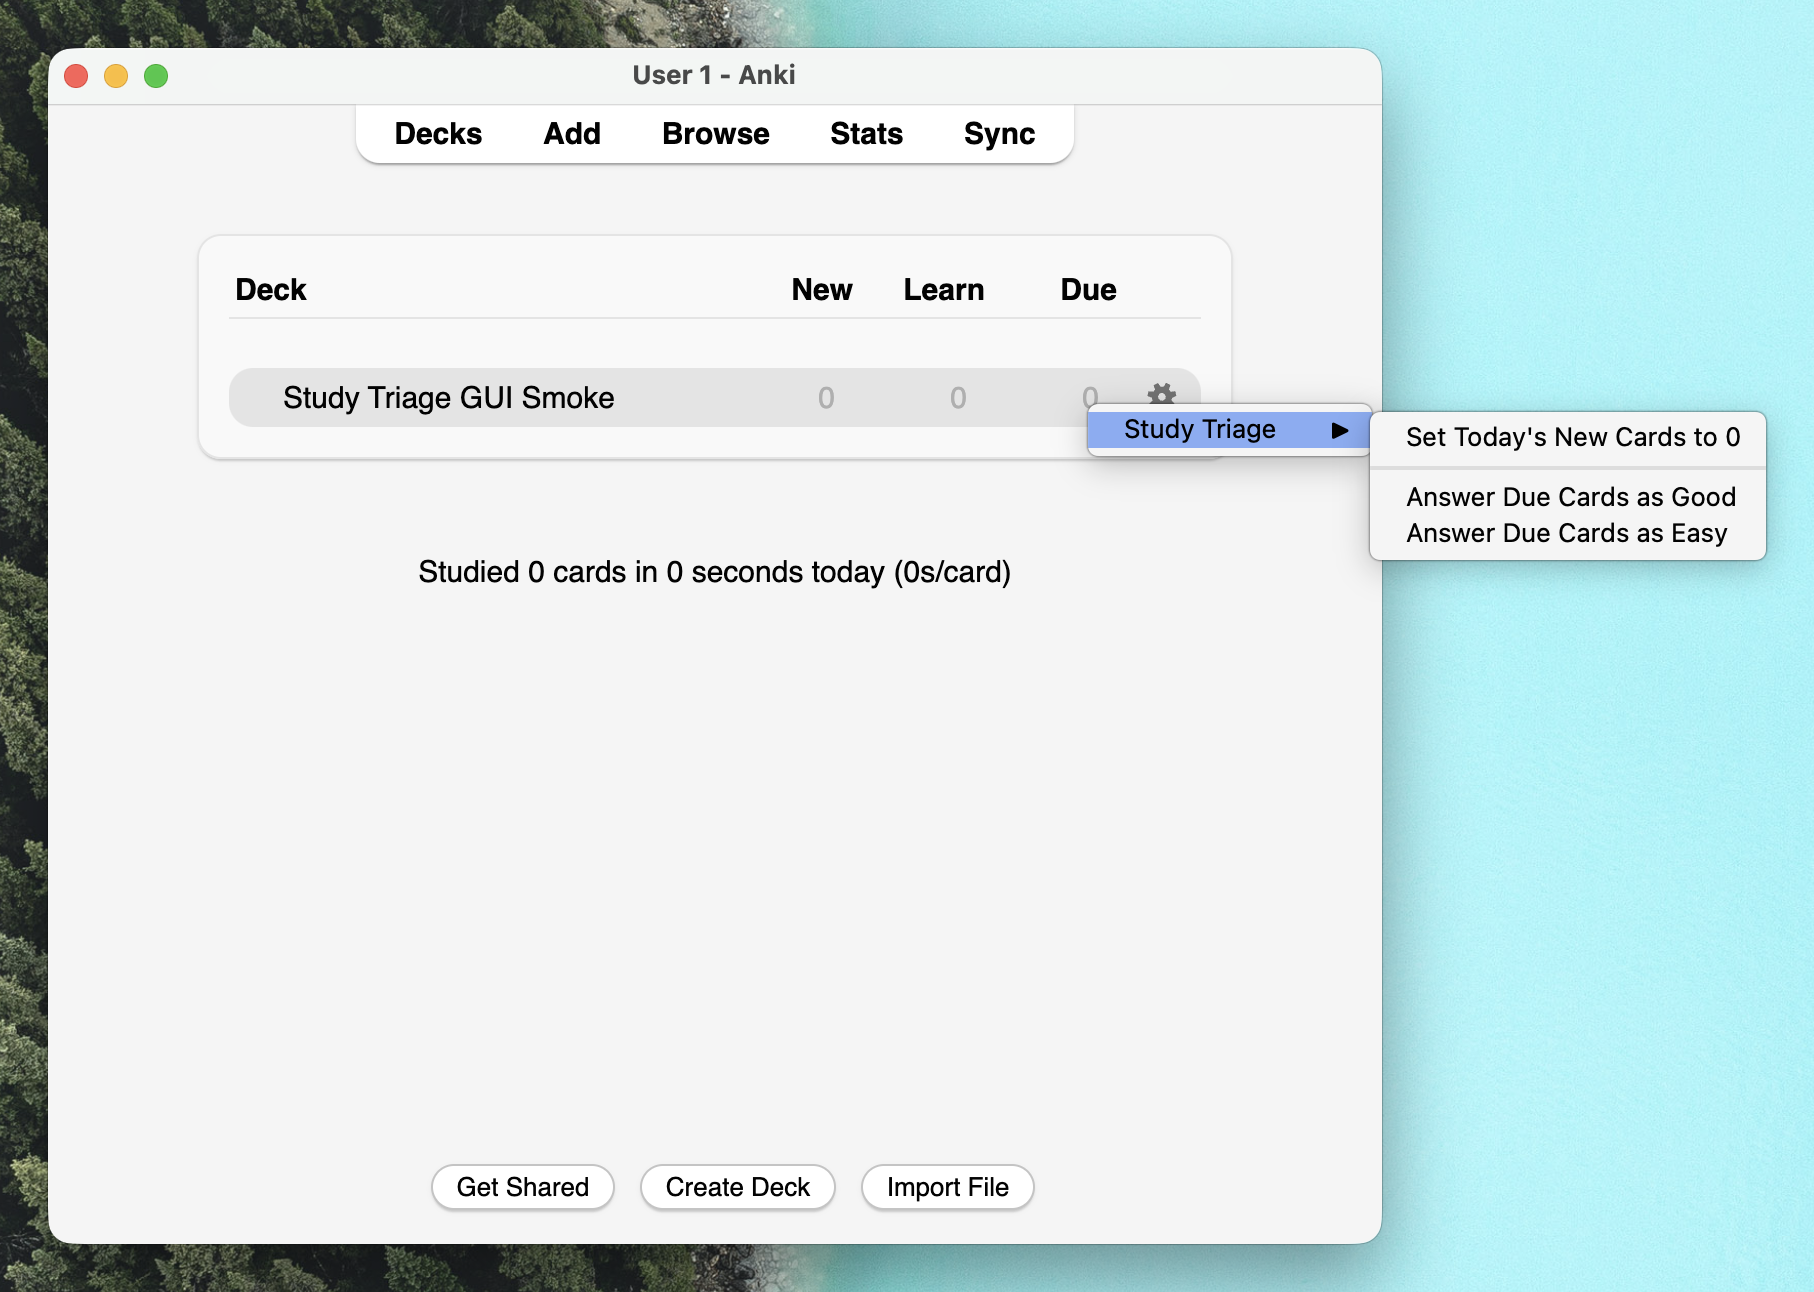
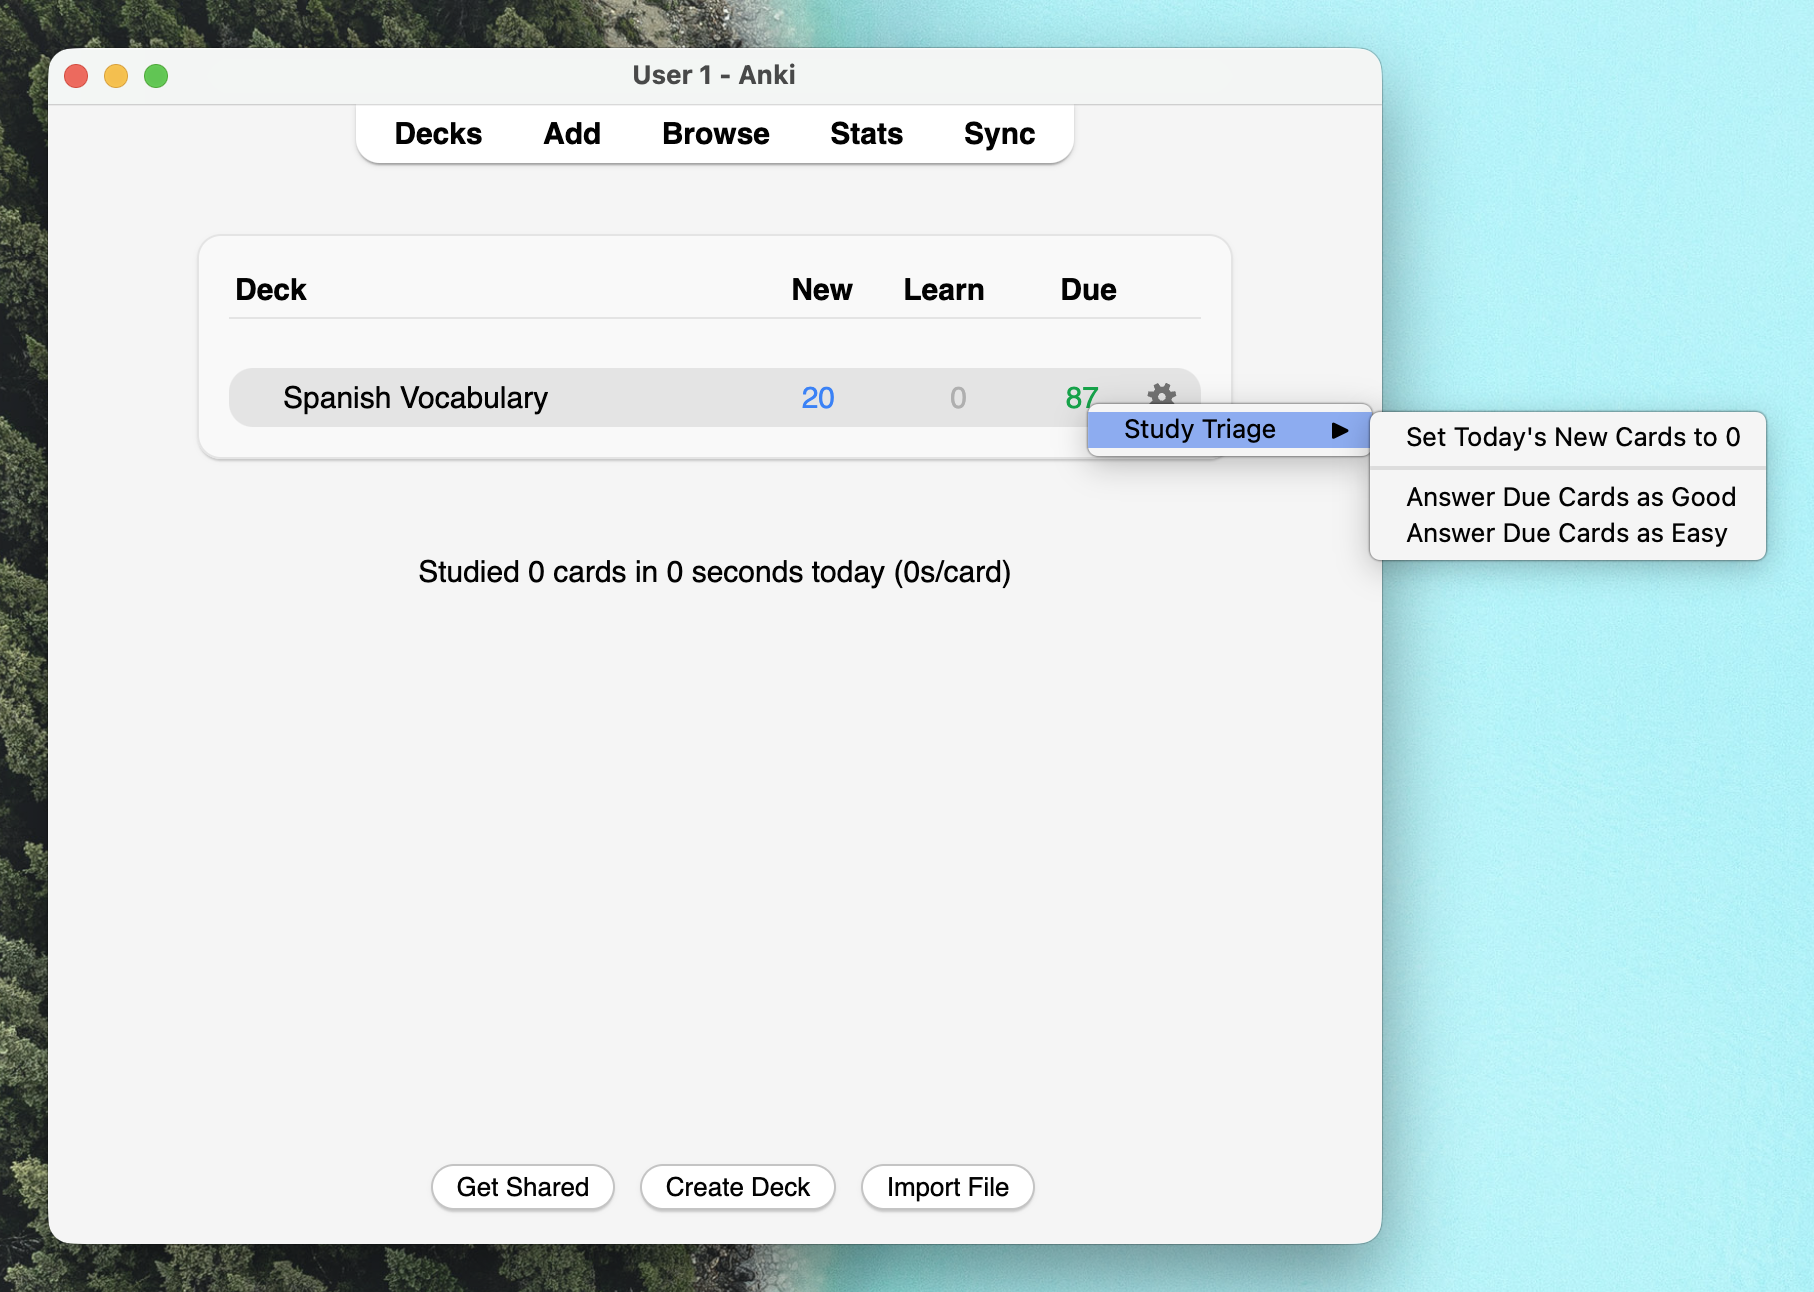
Give Study Triage screenshot a user story

diff --git a/tests/gui_smoke/probe_addon/__init__.py b/tests/gui_smoke/probe_addon/__init__.py
@@ -21,6 +21,9 @@ except ImportError:
 
 
 MENU_LABEL = "Study Triage"
+SCREENSHOT_DECK_NAME = "Spanish Vocabulary"
+SCREENSHOT_NEW_COUNT = 20
+SCREENSHOT_DUE_COUNT = 87
 EXPECTED_ACTIONS = [
     "Set Today's New Cards to 0",
     "Answer Due Cards as Good",
@@ -89,6 +92,76 @@ def _ensure_smoke_deck_id() -> int:
     assert mw.col is not None
     deck_id = int(mw.col.decks.id("Study Triage GUI Smoke"))
     mw.col.decks.set_current(deck_id)
+    return deck_id
+
+
+def _ensure_screenshot_deck_id() -> int:
+    assert mw is not None
+    assert mw.col is not None
+
+    deck_id = int(mw.col.decks.id(SCREENSHOT_DECK_NAME))
+    card_ids = list(mw.col.find_cards(f'deck:"{SCREENSHOT_DECK_NAME}"'))
+    expected_total = SCREENSHOT_NEW_COUNT + SCREENSHOT_DUE_COUNT
+    if not card_ids:
+        notetype = mw.col.models.current()
+        if notetype is None:
+            raise AssertionError("could not load the default note type for screenshot setup")
+        for index in range(expected_total):
+            note = mw.col.new_note(notetype)
+            note["Front"] = f"Spanish vocabulary prompt {index + 1}"
+            note["Back"] = f"Spanish vocabulary answer {index + 1}"
+            mw.col.add_note(note, deck_id)
+        card_ids = list(mw.col.find_cards(f'deck:"{SCREENSHOT_DECK_NAME}"'))
+
+    if len(card_ids) != expected_total:
+        raise AssertionError(
+            f"screenshot story expected {expected_total} cards, found {len(card_ids)}"
+        )
+
+    new_card_ids = list(mw.col.find_cards(f'deck:"{SCREENSHOT_DECK_NAME}" is:new'))
+    new_card_id_set = set(new_card_ids)
+    due_card_ids = [card_id for card_id in card_ids if card_id not in new_card_id_set]
+    cards_to_make_due = SCREENSHOT_DUE_COUNT - len(due_card_ids)
+    if cards_to_make_due > 0:
+        mw.col.sched.set_due_date(new_card_ids[:cards_to_make_due], "0")
+
+    mw.col.decks.set_current(deck_id)
+    counts = mw.col.sched.get_queued_cards(fetch_limit=1)
+    new_count = int(getattr(counts, "new_count", 0))
+    review_count = int(getattr(counts, "review_count", 0))
+    if (new_count, review_count) != (SCREENSHOT_NEW_COUNT, SCREENSHOT_DUE_COUNT):
+        raise AssertionError(
+            "screenshot story should show "
+            f"{SCREENSHOT_NEW_COUNT} new / {SCREENSHOT_DUE_COUNT} due, "
+            f"got {new_count} new / {review_count} due"
+        )
+
+    smoke_deck_id = mw.col.decks.id_for_name("Study Triage GUI Smoke")
+    if smoke_deck_id:
+        mw.col.decks.remove([smoke_deck_id])
+
+    deck_browser = getattr(mw, "deckBrowser", None)
+    refresh = getattr(deck_browser, "refresh", None)
+    if callable(refresh):
+        rendered = {"done": False}
+
+        def mark_rendered(browser: Any) -> None:
+            if browser is deck_browser:
+                rendered["done"] = True
+
+        gui_hooks.deck_browser_did_render.append(mark_rendered)
+        try:
+            refresh()
+            for _attempt in range(100):
+                _process_events(50)
+                if rendered["done"]:
+                    break
+        finally:
+            gui_hooks.deck_browser_did_render.remove(mark_rendered)
+
+        if not rendered["done"]:
+            raise AssertionError("deck browser did not render the screenshot story")
+        _process_events(250)
     return deck_id
 
 
@@ -327,7 +400,7 @@ def _grab_menu_screenshot():
     QToolTip.hideText()
     _hide_transient_widgets()
     _process_events(100)
-    deck_id = _ensure_smoke_deck_id()
+    deck_id = _ensure_screenshot_deck_id()
 
     deck_menu = QMenu(mw)
     gui_hooks.deck_browser_will_show_options_menu(deck_menu, deck_id)
@@ -347,6 +420,10 @@ def _grab_menu_screenshot():
     triage_menu.adjustSize()
     triage_menu.popup(deck_menu.mapToGlobal(triage_rect.topRight()))
     _process_events(250)
+    deck_menu.show()
+    deck_menu.raise_()
+    triage_menu.raise_()
+    _process_events(100)
 
     try:
         screen = mw.screen() or QApplication.primaryScreen()

diff --git a/tests/gui_smoke/README.md b/tests/gui_smoke/README.md
@@ -16,6 +16,13 @@ bridge and context menu builder. The JSON result includes the clicked action,
 signal count, bridge assertion, and before/after deck limit assertion before
 Anki quits.
 
+The public screenshot lane tells a concrete user story instead of reusing the
+empty technical smoke deck: a `Spanish Vocabulary` deck has 20 new cards and
+87 due reviews, and the Study Triage menu is open at the point where the user
+decides how to reduce today's workload. The probe asserts those exact scheduler
+counts and waits for the updated deck browser to render before capturing, so an
+empty or stale screenshot fails the run.
+
 ## Host Run
 
 ```sh